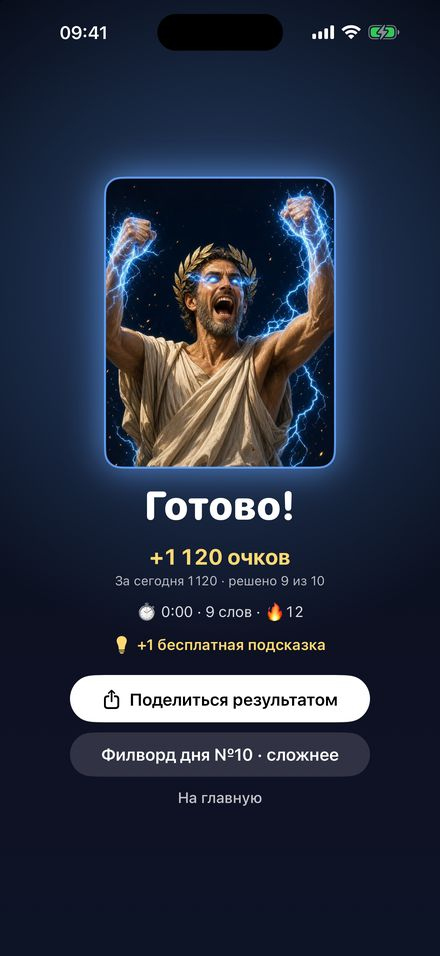
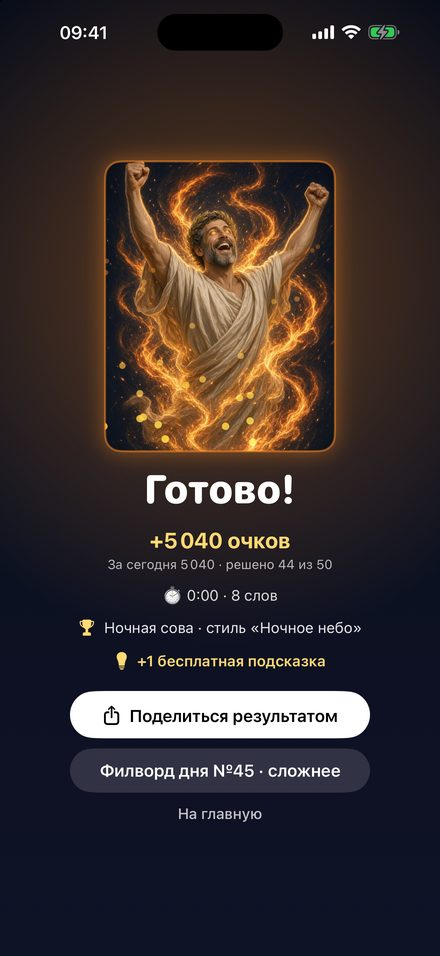
Сайт: 4 наставника, Шут Пиррон, ульта, этапы и новая формула очков; свежие скриншоты

diff --git a/support/index.html b/support/index.html
@@ -70,7 +70,11 @@ footer { color:var(--muted); font-size:14px; margin-top:48px; border-top:1px sol
 <h2>Когда появляются новые «Филворды дня»?</h2>
 <p>Каждый вечер в 19:00 по Москве — сразу 50 полей, одни для всех игроков. Поля открываются по порядку, каждое решается один раз.</p>
 <h2>Как считаются очки?</h2>
-<p>За каждую клетку поля — 10 очков, умноженных на скорость (до ×2 быстрее нормы). Неверные слова и подсказки немного снижают результат.</p>
+<p>За каждую клетку поля — 40 очков, умноженных на этап дня (×1 для полей 1–20, ×1,25 для 21–40, ×1,5 для 41–50) и на скорость (до ×2 быстрее нормы). Неверные слова, подсказки и ульта немного снижают результат.</p>
+<h2>Кто такой Шут Пиррон?</h2>
+<p>Злодей «Филослова». На полях 10, 20, 30, 40 и 50 он устраивает бой: прячет длину слов и выжигает клетки — буква под огнём не видна. Найденное слово и подсказка гасят огонь. Расстановка одинакова у всех игроков.</p>
+<h2>Что такое ульта наставника?</h2>
+<p>Шкала силы копится найденными буквами. С 80% ульту можно взять за ролик, на 100% — бесплатно; после неё шкала сгорает. Одна ульта на поле. У «Филвордов дня» своя шкала и своя копилка подсказок.</p>
 <h2>Не вижу себя в рейтинге</h2>
 <p>Рейтинг ведёт Game Center. Войдите в него в <b>Настройках iPhone → Game Center</b> и откройте экран «Рейтинг» в игре — очки, набранные без интернета, отправятся автоматически.</p>
 <h2>Пропал прогресс</h2>

diff --git a/index.html b/index.html
@@ -69,12 +69,16 @@ footer { color:var(--muted); font-size:14px; margin-top:48px; border-top:1px sol
 </section>
 <section class="features">
   <div><b>50 филвордов дня</b><span>Обновляются каждый вечер в 19:00 по Москве. Чем дальше, тем сложнее и тем больше очков.</span></div>
-  <div><b>Наставник</b><span>Греческий мыслитель радуется победам — от ухмылки до бури молний.</span></div>
+  <div><b>Четыре наставника</b><span>Мыслитель, мастер кунг-фу, учёный монах и жрец радуются победам, у каждого своя подсказка и ульта.</span></div>
+  <div><b>Шут Пиррон</b><span>На полях 10, 20, 30, 40 и 50 — бой с боссом: он прячет длину слов и выжигает клетки.</span></div>
   <div><b>Рейтинг дня и недели</b><span>Game Center покажет ваше место и «топ X%». Топ-1% открывает «Легенду».</span></div>
 </section>
 <section class="shots" aria-label="Скриншоты">
-  <img src="img/01_daily.jpg" alt="Главный экран с десятью филвордами дня">
+  <img src="img/01_daily.jpg" alt="Главный экран: 50 филвордов дня в трёх этапах">
   <img src="img/03_mentor.jpg" alt="Наставник радуется победе">
+  <img src="img/09_boss.jpg" alt="Бой с боссом: Шут Пиррон">
+  <img src="img/08_ult.jpg" alt="Ульта наставника на поле «Вершины»">
+  <img src="img/07_mentors.jpg" alt="Мастер кунг-фу — один из четырёх наставников">
   <img src="img/04_rating.jpg" alt="Рейтинг дня: топ-2%">
   <img src="img/06_legend.jpg" alt="Экран ачивки «Легенда»">
 </section>

diff --git a/build.py b/build.py
@@ -97,12 +97,16 @@ HOME = f"""
 </section>
 <section class="features">
   <div><b>50 филвордов дня</b><span>Обновляются каждый вечер в 19:00 по Москве. Чем дальше, тем сложнее и тем больше очков.</span></div>
-  <div><b>Наставник</b><span>Греческий мыслитель радуется победам — от ухмылки до бури молний.</span></div>
+  <div><b>Четыре наставника</b><span>Мыслитель, мастер кунг-фу, учёный монах и жрец радуются победам, у каждого своя подсказка и ульта.</span></div>
+  <div><b>Шут Пиррон</b><span>На полях 10, 20, 30, 40 и 50 — бой с боссом: он прячет длину слов и выжигает клетки.</span></div>
   <div><b>Рейтинг дня и недели</b><span>Game Center покажет ваше место и «топ X%». Топ-1% открывает «Легенду».</span></div>
 </section>
 <section class="shots" aria-label="Скриншоты">
-  <img src="img/01_daily.jpg" alt="Главный экран с десятью филвордами дня">
+  <img src="img/01_daily.jpg" alt="Главный экран: 50 филвордов дня в трёх этапах">
   <img src="img/03_mentor.jpg" alt="Наставник радуется победе">
+  <img src="img/09_boss.jpg" alt="Бой с боссом: Шут Пиррон">
+  <img src="img/08_ult.jpg" alt="Ульта наставника на поле «Вершины»">
+  <img src="img/07_mentors.jpg" alt="Мастер кунг-фу — один из четырёх наставников">
   <img src="img/04_rating.jpg" alt="Рейтинг дня: топ-2%">
   <img src="img/06_legend.jpg" alt="Экран ачивки «Легенда»">
 </section>
@@ -120,7 +124,11 @@ SUPPORT = f"""
 <h2>Когда появляются новые «Филворды дня»?</h2>
 <p>Каждый вечер в 19:00 по Москве — сразу 50 полей, одни для всех игроков. Поля открываются по порядку, каждое решается один раз.</p>
 <h2>Как считаются очки?</h2>
-<p>За каждую клетку поля — 10 очков, умноженных на скорость (до ×2 быстрее нормы). Неверные слова и подсказки немного снижают результат.</p>
+<p>За каждую клетку поля — 40 очков, умноженных на этап дня (×1 для полей 1–20, ×1,25 для 21–40, ×1,5 для 41–50) и на скорость (до ×2 быстрее нормы). Неверные слова, подсказки и ульта немного снижают результат.</p>
+<h2>Кто такой Шут Пиррон?</h2>
+<p>Злодей «Филослова». На полях 10, 20, 30, 40 и 50 он устраивает бой: прячет длину слов и выжигает клетки — буква под огнём не видна. Найденное слово и подсказка гасят огонь. Расстановка одинакова у всех игроков.</p>
+<h2>Что такое ульта наставника?</h2>
+<p>Шкала силы копится найденными буквами. С 80% ульту можно взять за ролик, на 100% — бесплатно; после неё шкала сгорает. Одна ульта на поле. У «Филвордов дня» своя шкала и своя копилка подсказок.</p>
 <h2>Не вижу себя в рейтинге</h2>
 <p>Рейтинг ведёт Game Center. Войдите в него в <b>Настройках iPhone → Game Center</b> и откройте экран «Рейтинг» в игре — очки, набранные без интернета, отправятся автоматически.</p>
 <h2>Пропал прогресс</h2>
